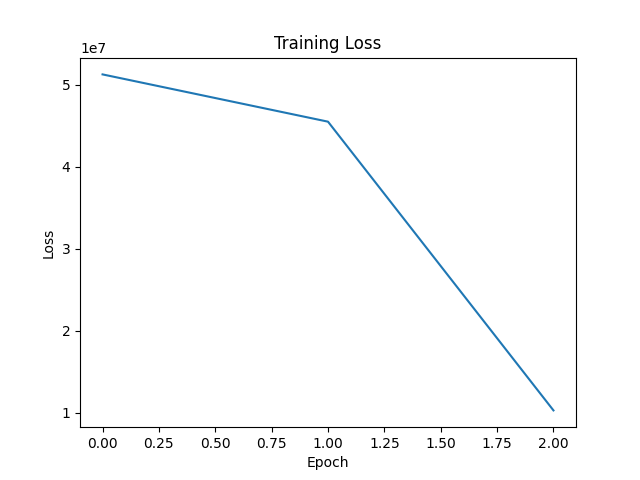
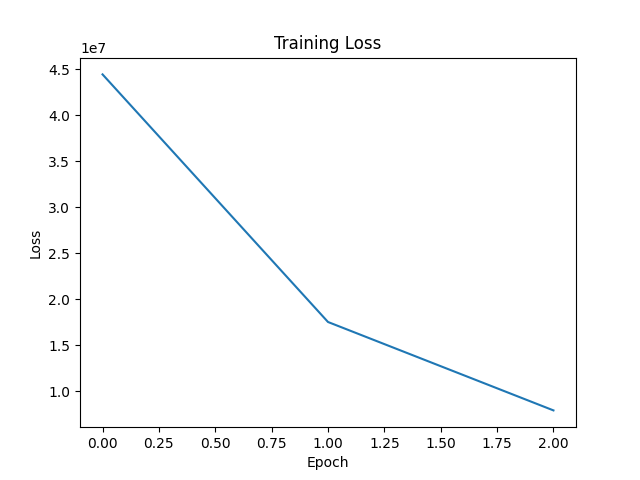
add eval to gnn

diff --git a/gnn.py b/gnn.py
@@ -336,41 +336,26 @@ def get_graph2():
 def get_graph3():
     # TODO: get random nodes, run dfs but with cut off, since the test set has less nodes, it probably won't have as big of a graph
     edge_key_mapping = dict(zip(compile_data.keys(), range(len(compile_data))))
-    random_keys = random.sample(list(edge_key_mapping), int(len(edge_key_mapping) * 0.8))
+    random_keys = random.sample(list(edge_key_mapping), int(len(edge_key_mapping) * 0.7))
 
-    # Split the dictionary into two based on the random keys
-    dict1 = {k: edge_key_mapping[k] for k in random_keys}
-    dict2 = {k: edge_key_mapping[k] for k in edge_key_mapping if k not in random_keys}
+    keys = list(edge_key_mapping)
+    split_percentages = [0.8, 0.1, 0.1]
+    split_lengths = [int(len(keys) * p) for p in split_percentages]
+    random.shuffle(keys)
 
-    print(f"total dict: {len(compile_data)}, dict1 size: {len(dict1)}, dict2 size: {len(dict2)}")
+    split1 = keys[:split_lengths[0]]
+    split2 = keys[split_lengths[0]:split_lengths[0] + split_lengths[1]]
+    split3 = keys[split_lengths[0] + split_lengths[1]:]
+
+    dict1 = {k: edge_key_mapping[k] for k in split1}
+    dict2 = {k: edge_key_mapping[k] for k in split2}
+    dict3 = {k: edge_key_mapping[k] for k in split3}
+
+    print(f"total dict: {len(compile_data)}, dict1 size: {len(dict1)}, dict2 size: {len(dict2)}, dict3 size: {len(dict3)}")
 
     edge_key_mapping1 = dict(zip(dict1.keys(), range(len(dict1))))
     edge_key_mapping2 = dict(zip(dict2.keys(), range(len(dict2))))
-
-    x_test = []
-    y_test = []
-    edge_test = [[], []]
-    edge_key_mapping = edge_key_mapping2
-    for vid_id in dict2:
-        source_says_neigh = compile_data[vid_id]["source_neighbors"]
-        target_says_neigh = compile_data[vid_id]["target_neighbors"]
-        for source in source_says_neigh:
-            if source in edge_key_mapping2:
-                edge_test[0].append(edge_key_mapping[source])
-                edge_test[1].append(edge_key_mapping[vid_id])
-        for dest in target_says_neigh:
-            if dest in edge_key_mapping2:
-                edge_test[1].append(edge_key_mapping[vid_id])
-                edge_test[0].append(edge_key_mapping[dest])
-
-        lst = []
-        lst.append(compile_data[vid_id]["aver_daily_view"])
-        lst.append(compile_data[vid_id]["aver_daily_share"])
-        lst.append(compile_data[vid_id]["aver_watch_time"])
-        lst.extend(compile_data[vid_id]["neighbor_engagement"])
-        x_test.append(lst)
-
-        y_test.append([compile_data[vid_id]["aver_watch_percentage"], compile_data[vid_id]["relative_engagement"]])
+    edge_key_mapping3 = dict(zip(dict3.keys(), range(len(dict3))))
 
     x_train = []
     y_train = []
@@ -397,21 +382,76 @@ def get_graph3():
 
         y_train.append([compile_data[vid_id]["aver_watch_percentage"], compile_data[vid_id]["relative_engagement"]])
 
+    x_val = []
+    y_val = []
+    edge_val = [[], []]
+    edge_key_mapping = edge_key_mapping2
+    for vid_id in dict2:
+        source_says_neigh = compile_data[vid_id]["source_neighbors"]
+        target_says_neigh = compile_data[vid_id]["target_neighbors"]
+        for source in source_says_neigh:
+            if source in edge_key_mapping2:
+                edge_val[0].append(edge_key_mapping[source])
+                edge_val[1].append(edge_key_mapping[vid_id])
+        for dest in target_says_neigh:
+            if dest in edge_key_mapping2:
+                edge_val[1].append(edge_key_mapping[vid_id])
+                edge_val[0].append(edge_key_mapping[dest])
+
+        lst = []
+        lst.append(compile_data[vid_id]["aver_daily_view"])
+        lst.append(compile_data[vid_id]["aver_daily_share"])
+        lst.append(compile_data[vid_id]["aver_watch_time"])
+        lst.extend(compile_data[vid_id]["neighbor_engagement"])
+        x_val.append(lst)
+
+        y_val.append([compile_data[vid_id]["aver_watch_percentage"], compile_data[vid_id]["relative_engagement"]])
+
+    x_test = []
+    y_test = []
+    edge_test = [[], []]
+    edge_key_mapping = edge_key_mapping3
+    for vid_id in dict3:
+        source_says_neigh = compile_data[vid_id]["source_neighbors"]
+        target_says_neigh = compile_data[vid_id]["target_neighbors"]
+        for source in source_says_neigh:
+            if source in edge_key_mapping3:
+                edge_test[0].append(edge_key_mapping[source])
+                edge_test[1].append(edge_key_mapping[vid_id])
+        for dest in target_says_neigh:
+            if dest in edge_key_mapping3:
+                edge_test[1].append(edge_key_mapping[vid_id])
+                edge_test[0].append(edge_key_mapping[dest])
+
+        lst = []
+        lst.append(compile_data[vid_id]["aver_daily_view"])
+        lst.append(compile_data[vid_id]["aver_daily_share"])
+        lst.append(compile_data[vid_id]["aver_watch_time"])
+        lst.extend(compile_data[vid_id]["neighbor_engagement"])
+        x_test.append(lst)
+
+        y_test.append([compile_data[vid_id]["aver_watch_percentage"], compile_data[vid_id]["relative_engagement"]])
+
+
+
     x_train = torch.tensor(x_train, dtype=torch.float).to(device)
+    x_val = torch.tensor(x_val, dtype=torch.float).to(device)
     x_test = torch.tensor(x_test, dtype=torch.float).to(device)
     y_train = torch.tensor(y_train, dtype=torch.float).to(device)
+    y_val = torch.tensor(y_val, dtype=torch.float).to(device)
     y_test = torch.tensor(y_test, dtype=torch.float).to(device)
     edge_train = torch.tensor(edge_train, dtype=torch.long).to(device)
+    edge_val = torch.tensor(edge_val, dtype=torch.long).to(device)
     edge_test = torch.tensor(edge_test, dtype=torch.long).to(device)
 
-    return x_train, x_test, y_train, y_test, edge_train, edge_test
+    return x_train, x_test, x_val, y_train, y_test, y_val, edge_train, edge_test, edge_val
 
 
 # x_train, y_train, edge_index_train,\
 #     x_val, y_val, edge_index_val, \
 #     x_test, y_test, edge_index_test = get_graph()
 
-x_train, x_test, y_train, y_test, edge_train, edge_test = get_graph3()
+x_train, x_test, x_val, y_train, y_test, y_val, edge_train, edge_test, edge_val = get_graph3()
 # x_train, x_test, y_train, y_test, edge_train, edge_test = get_graph()
 
 # print("x_train shape[1]:", x_train.shape[1])
@@ -422,7 +462,7 @@ optimizer = torch.optim.Adam(model.parameters(), lr=0.01)
 model.train()
 loss_lst = []
 # TODO: add validation data
-for epoch in range(100):
+for epoch in range(3):
     optimizer.zero_grad()
     print(x_train.shape, edge_train.shape)
     out = model(x_train, edge_train)
@@ -431,7 +471,12 @@ for epoch in range(100):
     # loss = F.nll_loss(out.view(-1, out.shape[0]).flatten(), y_train.view(-1, y_train.shape[0]).flatten())
     loss.backward()
     optimizer.step()
-    print('Epoch: {:03d}, Loss: {:.4f}'.format(epoch, loss.item()))
+
+    model.eval()
+    with torch.no_grad():
+        out = model(x_val, edge_val)
+        loss = loss_fn(y_val, out)
+        print('Epoch: {:03d}, Loss: {:.4f}'.format(epoch, loss.item()))
 
 print(loss_lst)
 plt.plot(loss_lst)
@@ -440,11 +485,6 @@ plt.ylabel('Loss')
 plt.title('Training Loss')
 plt.savefig("gnn_loss_plt.png")
 
-model.eval()
-correct = 0
-total = 0
-# x_test = torch.tensor([[0.5, 0.6], [1.0, 1.1], [2.0, 2.1], [0.0, 0.0], [0.0, 0.0]], dtype=torch.float).to(device)
-# y_test = torch.tensor([[1,1], [1,1], [0,1], [1,1], [0,1]]).to(device)
 pred_test = model(x_test, edge_test)
 if device == 'cuda':
     pred_test = pred_test.cpu()
